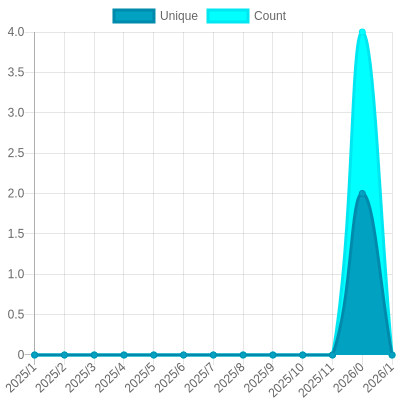
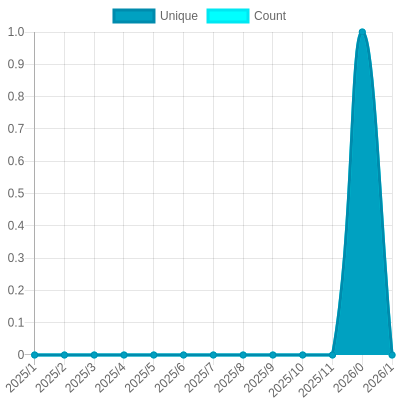
Update views

diff --git a/readme/921828714/year.md b/readme/921828714/year.md
@@ -34,10 +34,10 @@
 			<code>2025/1/1</code>
 		</td>
 		<td>
-			<code>2</code>
+			<code>1</code>
 		</td>
 		<td>
-			<code>2</code>
+			<code>1</code>
 		</td>
 	</tr>
 	<tr>
@@ -164,7 +164,7 @@
 </table>
 
 </details>
-<small><i>Last updated on 2025/2/7 12:22 PM UTC</i></small>
+<small><i>Last updated on 2025/2/7 6:16 PM UTC</i></small>
 
 ## ✂Copy and 📋 Paste
 ### SVG Badge

diff --git a/readme/921830105/year.md b/readme/921830105/year.md
@@ -34,10 +34,10 @@
 			<code>2025/1/1</code>
 		</td>
 		<td>
-			<code>2</code>
+			<code>1</code>
 		</td>
 		<td>
-			<code>4</code>
+			<code>1</code>
 		</td>
 	</tr>
 	<tr>
@@ -164,7 +164,7 @@
 </table>
 
 </details>
-<small><i>Last updated on 2025/2/7 12:22 PM UTC</i></small>
+<small><i>Last updated on 2025/2/7 6:16 PM UTC</i></small>
 
 ## ✂Copy and 📋 Paste
 ### SVG Badge

diff --git a/README.md b/README.md
@@ -53,7 +53,7 @@ The project created and maintained by [gayanvoice](https://github.com/gayanvoice
 	</tr>
 </table>
 
-<small><i>Last updated on 2025/2/7 12:22 PM UTC</i></small>
+<small><i>Last updated on 2025/2/7 6:16 PM UTC</i></small>
 
 ## ✂Copy and 📋 Paste
 ### Total Views Badge
